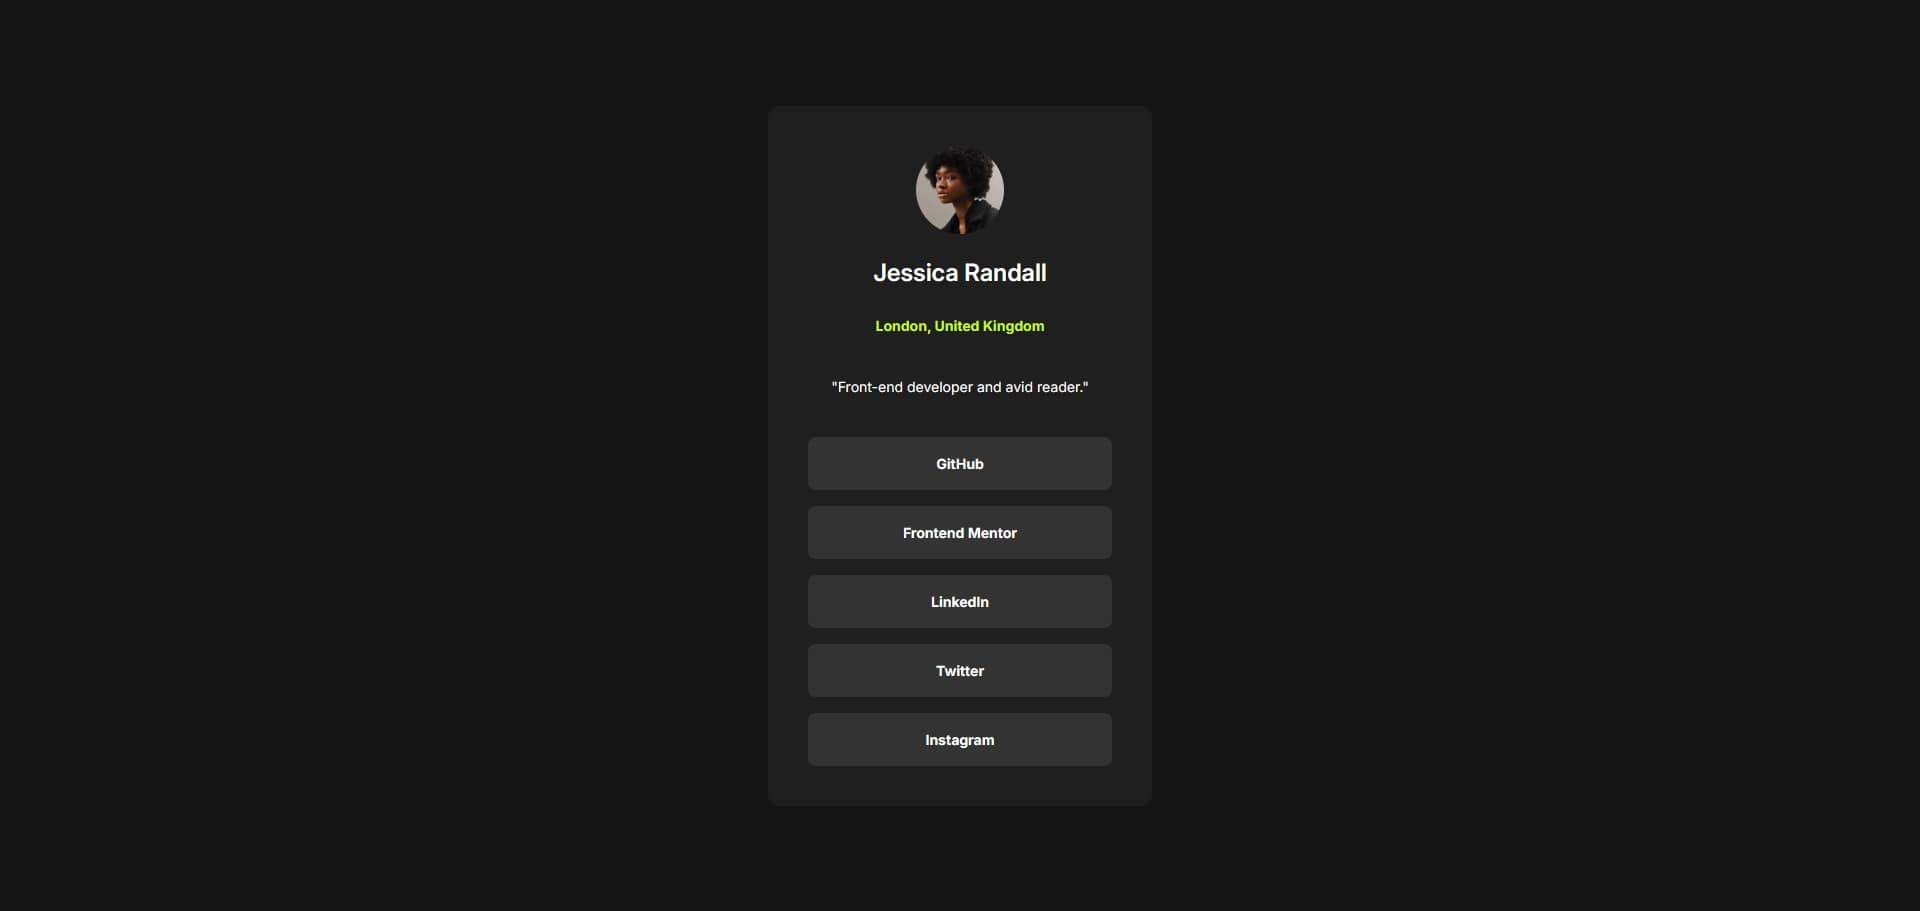
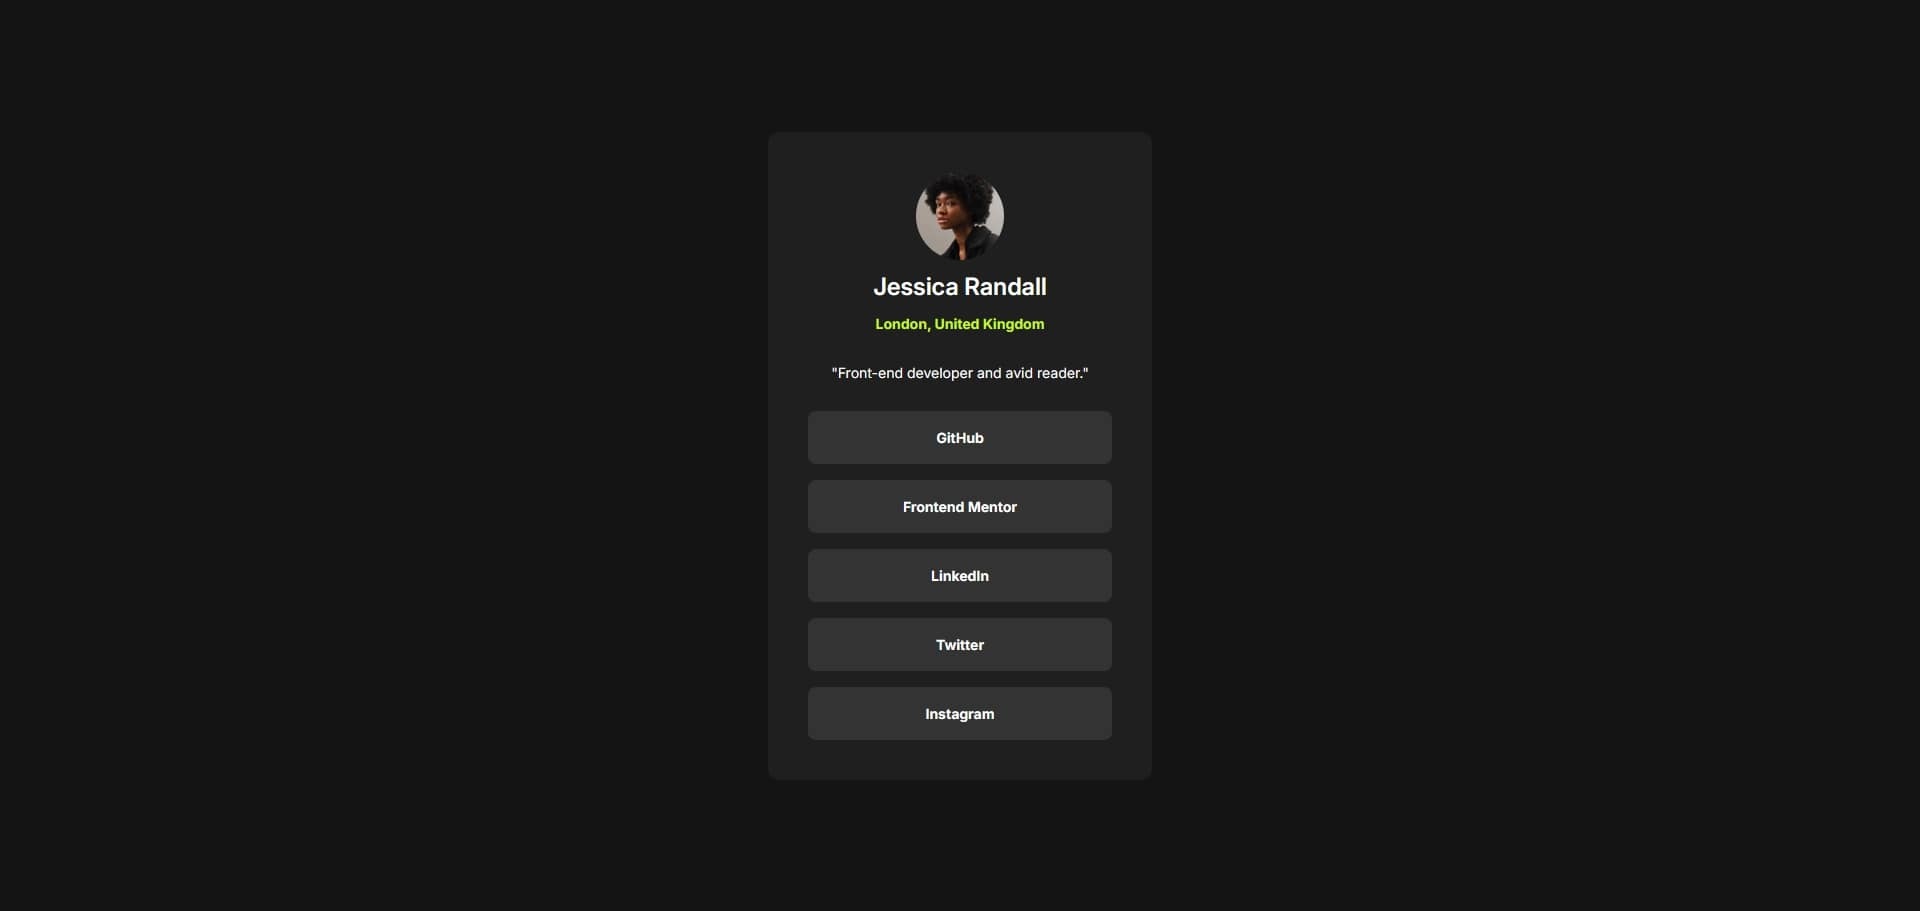
Update

diff --git a/style.css b/style.css
@@ -50,7 +50,7 @@ a {
   height: 5.5rem;
   object-fit: cover;
   border-radius: 50%;
-  margin-bottom: 1.5rem;
+  margin-bottom: 0.75rem;
 }
 .user-name {
   display: flex;
@@ -60,12 +60,11 @@ a {
   font-size: 1.5rem;
   font-weight: 600;
   line-height: 1.3125rem;
-  margin-bottom: 1rem;
 }
 
 .user-location {
   color: #c4f82a;
-  margin-bottom: 1.5rem;
+  margin-bottom: 0.75rem;
   text-align: center;
   font-size: 0.875rem;
   font-weight: 700;
@@ -75,10 +74,10 @@ a {
 .user-desc {
   color: white;
   text-align: center;
-  margin-bottom: 1.5rem;
   font-size: 0.875rem;
   font-weight: 400;
   line-height: 1.3125rem;
+  margin-bottom: 0.75rem;
 }
 
 a:hover {
